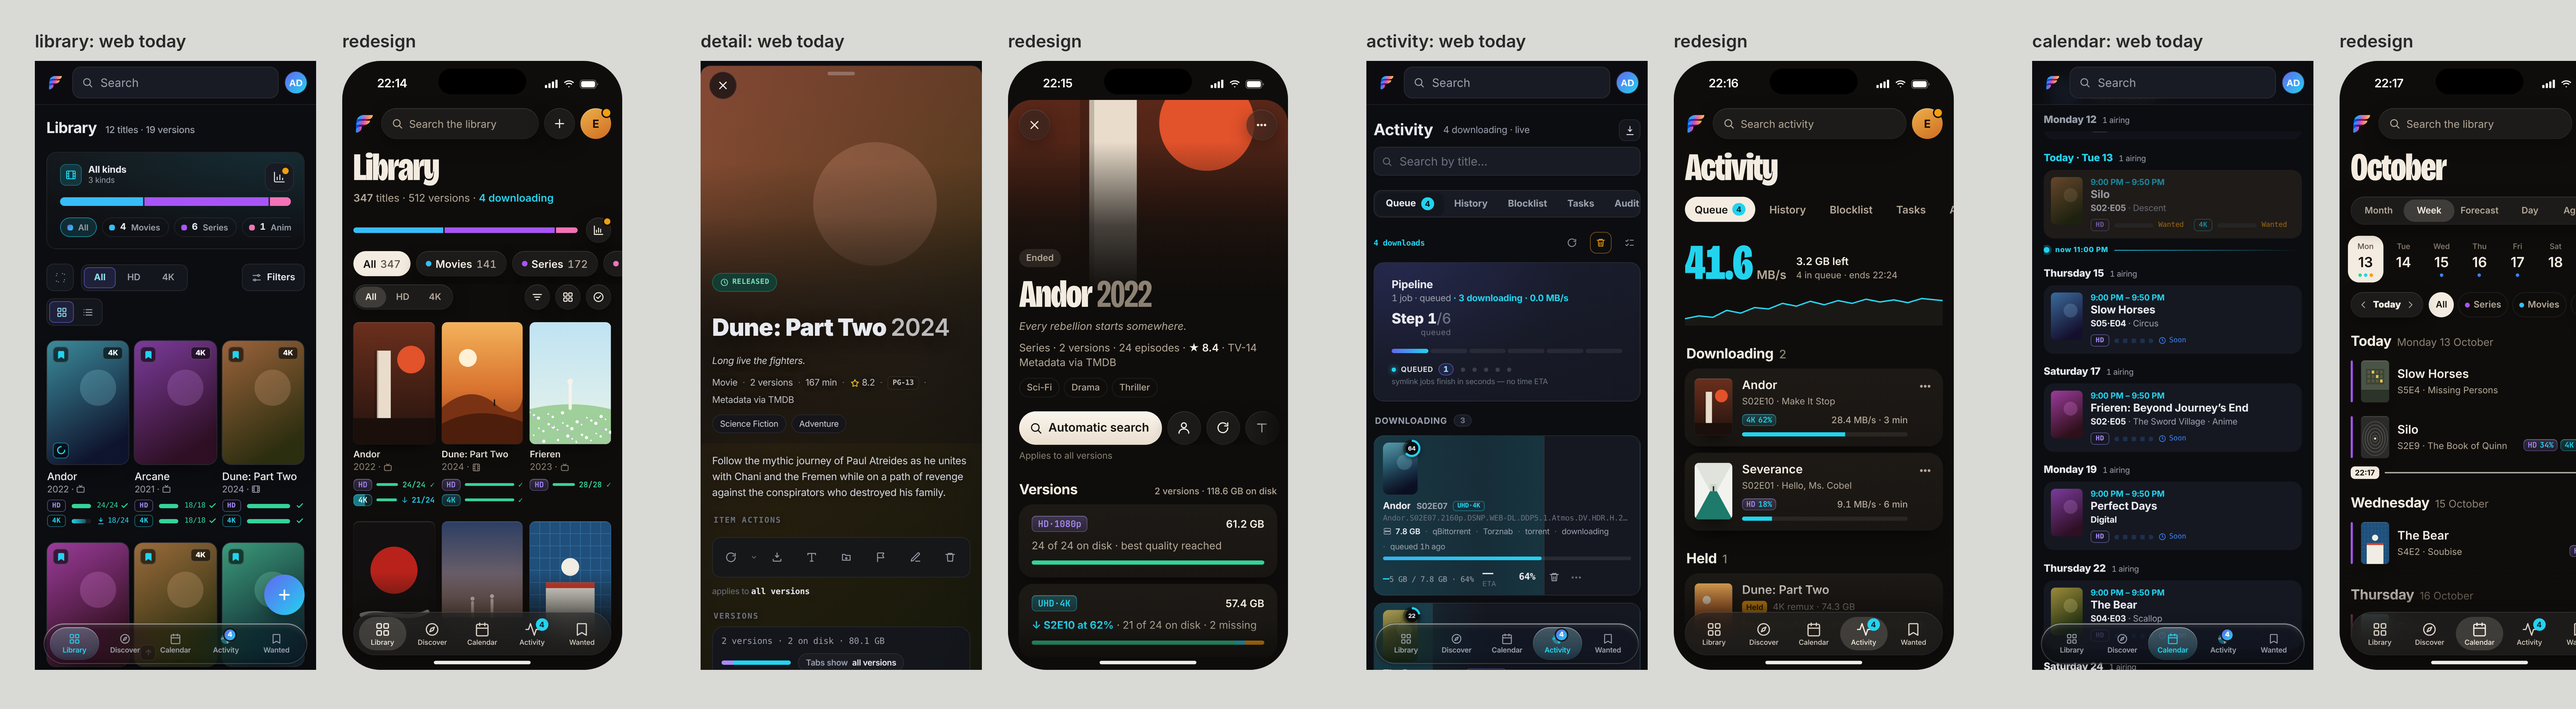
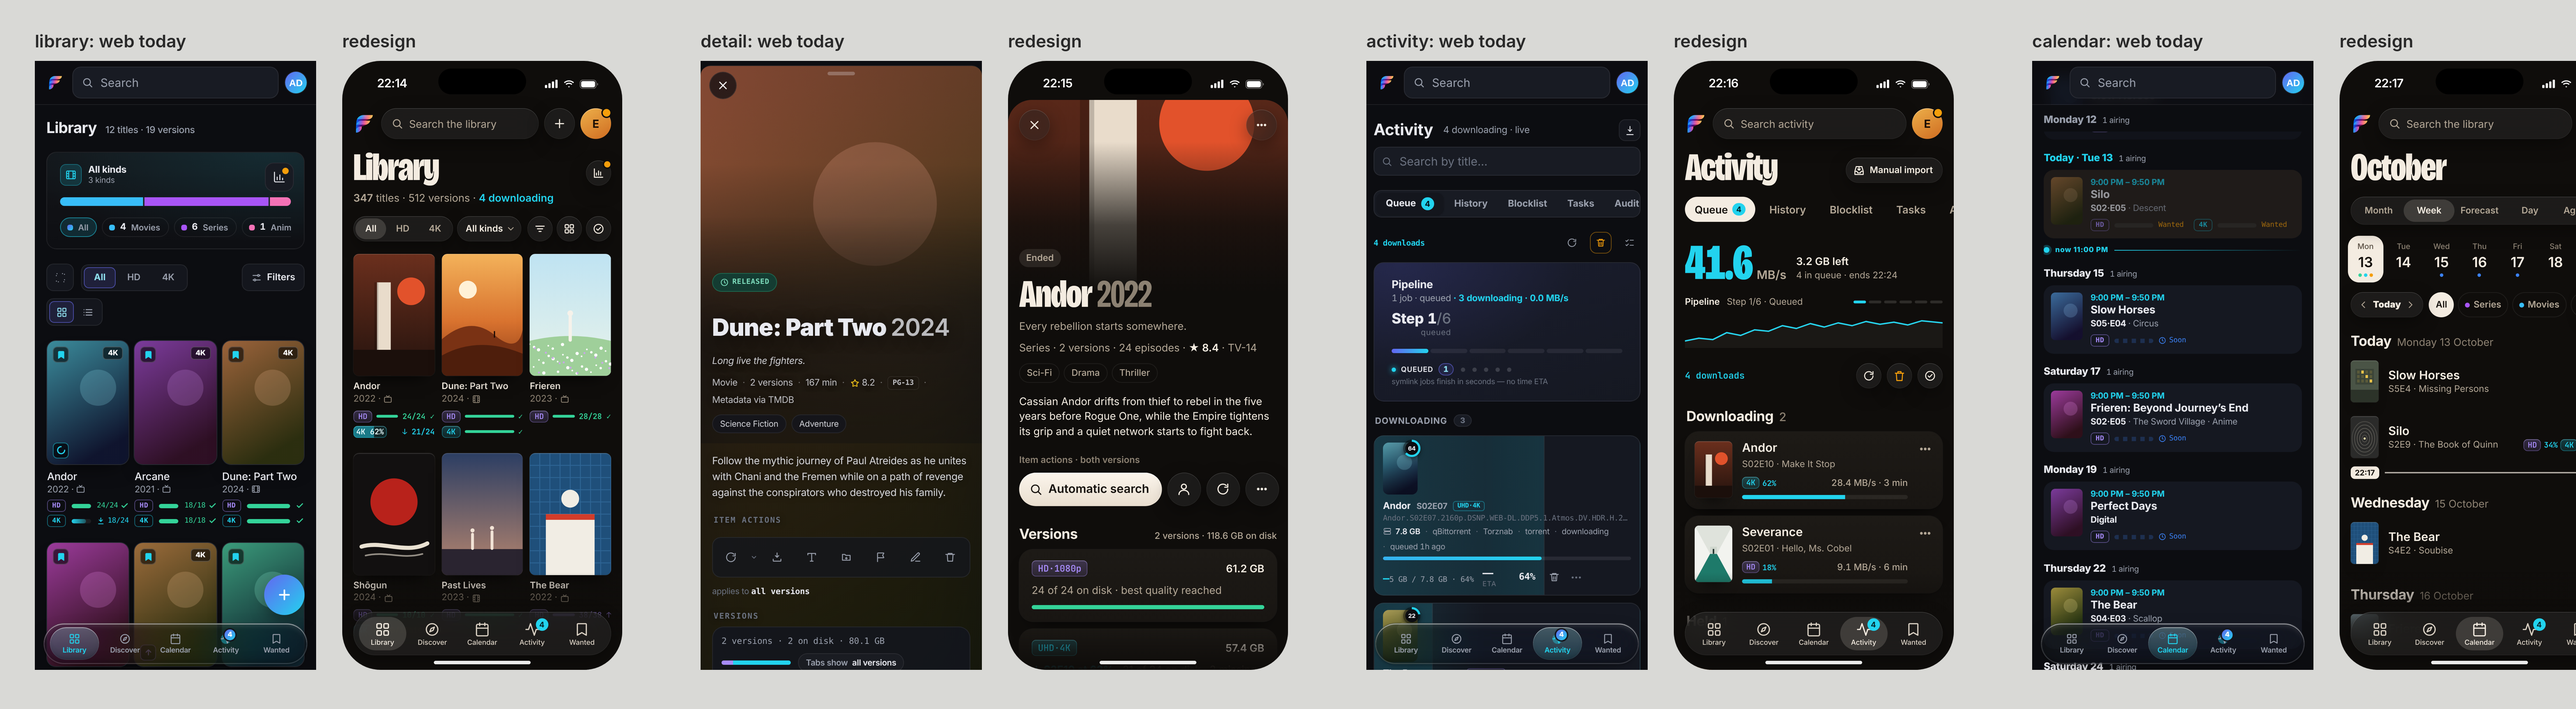
Redesign round 4: collapsed Library header, tier-only chips, detail overview and Activity pipeline
Claude-Session: https://claude.ai/code/session_014m8GXGta1yoU5Fnz4ZUVLk

diff --git a/docs/design/redesign/mockup.html b/docs/design/redesign/mockup.html
@@ -26,20 +26,17 @@
         <span class="status-chip">Ended</span>
         <h1 class="display d-title">Andor <span class="yr">2022</span></h1>
         <p class="tagline">Every rebellion starts somewhere.</p>
-        <p class="d-meta">Series · 2 versions · 24 episodes · <b>★ 8.4</b> · TV-14<br>Metadata via TMDB</p>
+        <p class="d-meta">Series · 2 versions · 24 episodes · <b>★ 8.4</b> · TV-14</p>
         <div class="genres"><span>Sci-Fi</span><span>Drama</span><span>Thriller</span></div>
+        <p class="overview">Cassian Andor drifts from thief to rebel in the five years before Rogue One, while the Empire tightens its grip and a quiet network starts to fight back.</p>
       </div>
-      <div class="rail" data-scrolls>
+      <p class="applies">Item actions · both versions</p>
+      <div class="rail">
         <div class="primary"><span data-icon="magnifier"></span>Automatic search</div>
         <div class="rb glass" data-icon="person" title="Interactive search"></div>
         <div class="rb glass" data-icon="refresh" title="Refresh"></div>
-        <div class="rb glass" data-icon="textformat" title="Preview rename"></div>
-        <div class="rb glass" data-icon="folder" title="Manage episodes"></div>
-        <div class="rb glass" data-icon="flag" title="Report an issue"></div>
-        <div class="rb glass" data-icon="pencil" title="Edit"></div>
-        <div class="rb glass" data-icon="trash" title="Delete"></div>
+        <div class="rb glass" data-icon="ellipsis" title="More: Preview rename, Manage episodes, Report an issue, Edit, Delete"></div>
       </div>
-      <p class="applies">Applies to all versions</p>
 
       <div class="section-h">Versions <span>2 versions · 118.6 GB on disk</span></div>
       <div class="versions">
@@ -61,19 +58,20 @@
         <div class="ep">
           <span class="bm on" data-icon="bookmark" data-hit-expanded></span>
           <div class="ep-t"><b>10 · Make It Stop</b><span>13 May 2025 · 47 min</span></div>
-          <div class="ep-c"><span class="ed ed-hd">HD <b class="c-done">✓</b></span><span class="ed ed-uhd">4K <b class="c-grab">62%</b></span></div>
+          <div class="ep-c"><span class="pair"><span class="ed ed-hd">HD</span><b class="st c-done">✓</b></span><span class="pair"><span class="ed ed-uhd">4K</span><b class="st c-grab">62%</b></span></div>
         </div>
         <div class="ep">
           <span class="bm on" data-icon="bookmark" data-hit-expanded></span>
           <div class="ep-t"><b>9 · Welcome to the Rebellion</b><span>13 May 2025 · 52 min</span></div>
-          <div class="ep-c"><span class="ed ed-hd">HD <b class="c-done">✓</b></span><span class="ed ed-uhd">4K <b class="c-miss">wanted</b></span></div>
+          <div class="ep-c"><span class="pair"><span class="ed ed-hd">HD</span><b class="st c-done">✓</b></span><span class="pair"><span class="ed ed-uhd">4K</span><b class="st c-miss">wanted</b></span></div>
         </div>
         <div class="ep">
           <span class="bm on" data-icon="bookmark" data-hit-expanded></span>
           <div class="ep-t"><b>8 · Who Are You?</b><span>13 May 2025 · 49 min</span></div>
-          <div class="ep-c"><span class="ed ed-hd">HD <b class="c-done">✓</b></span><span class="ed ed-uhd">4K <b class="c-miss">wanted</b></span></div>
+          <div class="ep-c"><span class="pair"><span class="ed ed-hd">HD</span><b class="st c-done">✓</b></span><span class="pair"><span class="ed ed-uhd">4K</span><b class="st c-miss">wanted</b></span></div>
         </div>
       </div>
+      <p class="credit">Metadata via TMDB</p>
     </div>
   </div>
 </section>
@@ -87,7 +85,7 @@
     <div class="grabber"></div>
     <div class="ps-head">
       <div><b>Shōgun</b><span>Series · 2024 · 1 season</span></div>
-      <div class="eds"><span class="ed ed-hd">HD <b class="c-done">✓</b></span><span class="ed ed-uhd">4K <b class="c-miss">0/10</b></span></div>
+      <div class="eds"><span class="pair"><span class="ed ed-hd">HD</span><b class="st c-done">✓</b></span><span class="pair"><span class="ed ed-uhd">4K</span><b class="st c-miss">0/10</b></span></div>
     </div>
     <div class="ps-primary"><span data-icon="magnifier"></span>Automatic search</div>
     <div class="ps-list">
@@ -108,7 +106,7 @@
       <div class="pill glass"><span class="ic" data-icon="search"></span>Search activity</div>
       <div class="avatar">E<span class="dot"></span></div>
     </div>
-    <h1 class="display page-title">Activity</h1>
+    <div class="title-row"><h1 class="display page-title">Activity</h1><div class="mi glass"><span data-icon="tray"></span>Manual import</div></div>
     <div class="segs" data-scrolls>
       <span class="on">Queue <em>4</em></span><span>History</span><span>Blocklist</span><span>Tasks</span><span>Audit</span><span>Indexers</span>
     </div>
@@ -116,15 +114,17 @@
       <div class="bw">
         <div class="bw-num display num">41.6<small>MB/s</small></div>
         <div class="bw-side"><b class="num">3.2 GB left</b><span>4 in queue · ends 22:24</span></div>
+        <div class="pipe"><b>Pipeline</b><span>Step 1/6 · Queued</span><div class="steps"><i class="on"></i><i></i><i></i><i></i><i></i><i></i></div></div>
         <svg class="spark" viewBox="0 0 370 44" preserveAspectRatio="none" aria-hidden="true"><path d="M0 34 L20 30 40 32 60 22 80 26 100 18 120 20 140 12 160 16 180 9 200 14 220 8 240 12 260 6 280 10 300 7 320 11 340 5 370 8" fill="none" stroke="#22D3EE" stroke-width="2" stroke-linejoin="round"/><path d="M0 34 L20 30 40 32 60 22 80 26 100 18 120 20 140 12 160 16 180 9 200 14 220 8 240 12 260 6 280 10 300 7 320 11 340 5 370 8 V44 H0Z" fill="#F4ECE1" opacity=".05"/></svg>
       </div>
 
+      <div class="qtools"><span class="qn">4 downloads</span><span class="g36 glass" data-icon="refresh"></span><span class="g36 glass warn" data-icon="trash"></span><span class="g36 glass" data-icon="select"></span></div>
       <div class="group-h">Downloading <span>2</span></div>
       <div class="obj q">
         <div class="q-poster poster" data-poster="andor"></div>
         <div class="q-main">
           <b>Andor</b><span class="q-sub">S02E10 · Make It Stop</span>
-          <div class="q-meta"><span class="ed ed-uhd">4K <b class="c-grab">62%</b></span><span class="num">28.4 MB/s · 3 min</span></div>
+          <div class="q-meta"><span class="pair"><span class="ed ed-uhd">4K</span><b class="st c-grab">62%</b></span><span class="num">28.4 MB/s · 3 min</span></div>
           <div class="meter"><i style="width:62%;background:var(--grab)"></i></div>
         </div>
         <div class="q-more" data-icon="ellipsis"></div>
@@ -133,7 +133,7 @@
         <div class="q-poster poster" data-poster="severance"></div>
         <div class="q-main">
           <b>Severance</b><span class="q-sub">S02E01 · Hello, Ms. Cobel</span>
-          <div class="q-meta"><span class="ed ed-hd">HD <b class="c-grab">18%</b></span><span class="num">9.1 MB/s · 6 min</span></div>
+          <div class="q-meta"><span class="pair"><span class="ed ed-hd">HD</span><b class="st c-grab">18%</b></span><span class="num">9.1 MB/s · 6 min</span></div>
           <div class="meter"><i style="width:18%;background:var(--grab)"></i></div>
         </div>
         <div class="q-more" data-icon="ellipsis"></div>
@@ -180,21 +180,21 @@
     </div>
     <div class="agenda" data-scrolls>
       <div class="day-h" data-proper>Today <span>Monday 13 October</span></div>
-      <div class="ev"><i class="kind" style="background:var(--series)"></i><div class="ev-p poster" data-poster="slowhorses"></div>
+      <div class="ev"><div class="ev-p poster" data-poster="slowhorses"></div>
         <div class="ev-t"><b>Slow Horses</b><span>S5E4 · Missing Persons</span></div>
-        <div class="ev-r"><span class="num">03:00</span><div class="eds"><span class="ed ed-hd">HD <b class="c-done">✓</b></span></div></div></div>
-      <div class="ev"><i class="kind" style="background:var(--series)"></i><div class="ev-p poster" data-poster="silo"></div>
+        <div class="ev-r"><span class="num">03:00</span><div class="eds"><span class="pair"><span class="ed ed-hd">HD</span><b class="st c-done">✓</b></span></div></div></div>
+      <div class="ev"><div class="ev-p poster" data-poster="silo"></div>
         <div class="ev-t"><b>Silo</b><span>S2E9 · The Book of Quinn</span></div>
-        <div class="ev-r"><span class="num">08:00</span><div class="eds"><span class="ed ed-hd">HD <b class="c-grab">34%</b></span><span class="ed ed-uhd">4K <b class="c-miss">wanted</b></span></div></div></div>
+        <div class="ev-r"><span class="num">08:00</span><div class="eds"><span class="pair"><span class="ed ed-hd">HD</span><b class="st c-grab">34%</b></span><span class="pair"><span class="ed ed-uhd">4K</span><b class="st c-miss">wanted</b></span></div></div></div>
       <div class="now"><span>22:17</span></div>
       <div class="day-h" data-proper>Wednesday <span>15 October</span></div>
-      <div class="ev"><i class="kind" style="background:var(--series)"></i><div class="ev-p poster" data-poster="bear"></div>
+      <div class="ev"><div class="ev-p poster" data-poster="bear"></div>
         <div class="ev-t"><b>The Bear</b><span>S4E2 · Soubise</span></div>
-        <div class="ev-r"><span class="num">02:00</span><div class="eds"><span class="ed ed-hd">HD <b class="c-unaired">soon</b></span></div></div></div>
+        <div class="ev-r"><span class="num">02:00</span><div class="eds"><span class="ed ed-hd">HD</span></div></div></div>
       <div class="day-h" data-proper>Thursday <span>16 October</span></div>
-      <div class="ev"><i class="kind" style="background:var(--anime)"></i><div class="ev-p poster" data-poster="frieren"></div>
+      <div class="ev"><div class="ev-p poster" data-poster="frieren"></div>
         <div class="ev-t"><b>Frieren</b><span>S2E2 · simulcast</span></div>
-        <div class="ev-r"><span class="num">16:30</span><div class="eds"><span class="ed ed-hd">HD <b class="c-unaired">soon</b></span></div></div></div>
+        <div class="ev-r"><span class="num">16:30</span><div class="eds"><span class="ed ed-hd">HD</span></div></div></div>
     </div>
   </div>
   <div class="edge" data-float></div>

diff --git a/docs/design/redesign/screens.css b/docs/design/redesign/screens.css
@@ -16,13 +16,30 @@
 .d-title { font-size: 56px; line-height: .95; letter-spacing: -1.2px; margin: 12px 0 0; }
 .d-title .yr { color: var(--ink-3); font-weight: 600; }
 .status-chip { display: inline-flex; font: 600 13px var(--sf); color: var(--ink-2); padding: 5px 10px; border-radius: 99px; background: rgba(244,236,225,.1); }
-.tagline { font: italic 400 15px/1.3 var(--sf); color: var(--ink-2); margin: 10px 0 0; }
-.applies { font: 400 13px var(--sf); color: var(--ink-3); margin: 8px 16px 0; }
+.tagline { font: 400 15px/1.3 var(--sf); color: var(--ink-2); margin: 10px 0 0; }
+.overview { font: 400 15px/1.45 var(--sf); color: var(--ink); margin: 16px 0 0; display: -webkit-box; -webkit-line-clamp: 3; -webkit-box-orient: vertical; overflow: hidden; }
+.overview b { color: var(--ink-2); font-weight: 600; }
+.credit { font: 400 13px var(--sf); color: var(--ink-3); margin: 0 16px; padding-bottom: 80px; }
+.pair { display: inline-flex; align-items: center; gap: 4px; }
+.st { font: 600 11px var(--mono); }
+.rmore { height: 48px; padding: 0 16px 0 12px; border-radius: 24px; display: flex; align-items: center; gap: 6px; font: 600 15px var(--sf); flex: none; }
+.rmore span { width: 20px; height: 20px; }
+.mi { height: 36px; padding: 0 14px 0 10px; border-radius: 18px; display: flex; align-items: center; gap: 6px; font: 600 13px var(--sf); margin-bottom: 4px; }
+.mi span { width: 18px; height: 18px; }
+.pipe { grid-column: 1 / -1; display: flex; align-items: center; gap: 10px; margin-top: 16px; font: 400 13px var(--sf); color: var(--ink-2); }
+.pipe b { font: 600 13px var(--sf); color: var(--ink); }
+.steps { display: flex; gap: 4px; margin-left: auto; }
+.steps i { width: 18px; height: 4px; border-radius: 2px; background: rgba(244,236,225,.14); }
+.steps i.on { background: var(--grab); }
+.qtools { display: flex; align-items: center; gap: 8px; margin-top: 22px; }
+.qtools .qn { font: 600 13px var(--mono); color: var(--grab); margin-right: auto; }
+.qtools .warn { color: var(--miss); }
+.applies { font: 600 13px var(--sf); color: var(--ink-3); margin: 22px 16px 0; }
 .d-meta { font: 400 15px/1.4 var(--sf); color: var(--ink-2); margin: 10px 0 0; }
 .d-meta b { color: var(--ink); font-weight: 600; }
 .genres { display: flex; gap: 6px; margin-top: 12px; }
 .genres span { font: 500 13px var(--sf); color: var(--ink-2); padding: 6px 11px; border-radius: 99px; box-shadow: inset 0 0 0 1px var(--hair); }
-.rail { display: flex; gap: 8px; padding: 20px 16px 0; overflow: hidden; -webkit-mask-image: linear-gradient(90deg, #000 85%, transparent); mask-image: linear-gradient(90deg, #000 85%, transparent); }
+.rail { display: flex; gap: 8px; padding: 10px 16px 0; }
 .rail .primary { height: 48px; padding: 0 18px 0 14px; border-radius: 24px; display: flex; align-items: center; gap: 8px; font: 600 17px var(--sf); color: #15110D;
   background: linear-gradient(180deg, #FBF5EC, #E9DECF); box-shadow: inset 0 1px 0 rgba(255,255,255,.7); flex: none; }
 .rail .primary [data-icon], .rail .primary span svg { width: 20px; height: 20px; }
@@ -65,7 +82,7 @@
 .ps-primary { margin: 0 8px 10px; height: 54px; border-radius: 27px; display: flex; align-items: center; justify-content: center; gap: 8px; font: 600 17px var(--sf); color: #15110D;
   background: linear-gradient(180deg, #FBF5EC, #E9DECF); box-shadow: inset 0 1px 0 rgba(255,255,255,.7); }
 .ps-primary span { width: 20px; height: 20px; }
-.ps-list { margin: 0 8px; border-radius: 26px; background: linear-gradient(180deg, #2A2520, #24201B); box-shadow: inset 0 1px 0 rgba(255,255,255,.06); }
+.ps-list { margin: 0 8px; border-radius: 26px; background: #27221D; box-shadow: inset 0 1px 0 rgba(255,255,255,.06); }
 .ps-list .row { display: flex; align-items: center; gap: 14px; height: 52px; padding: 0 16px; font: 400 17px var(--sf); border-bottom: .5px solid var(--hair); }
 .ps-list .row:last-child { border-bottom: 0; }
 .ps-list .row > span:first-child { width: 22px; height: 22px; color: var(--ink-2); flex: none; }
@@ -124,12 +141,12 @@
 .agenda { flex: 1; min-height: 0; overflow: hidden; padding: 0 16px 120px; }
 .day-h { font: 700 20px var(--sf); letter-spacing: -.3px; margin: 22px 0 6px; display: flex; gap: 8px; align-items: baseline; }
 .day-h span { font: 400 15px var(--sf); color: var(--ink-3); letter-spacing: 0; }
-.ev { display: flex; align-items: center; gap: 12px; padding: 10px 0; position: relative; }
+.ev { display: flex; align-items: center; gap: 14px; padding: 10px 0; position: relative; }
 .ev .kind { width: 3px; align-self: stretch; border-radius: 2px; flex: none; }
 .ev-p { width: 40px; flex: none; border-radius: 5px; }
 .ev-t { flex: 1; min-width: 0; }
-.ev-t b { display: block; font: 600 17px/1.25 var(--sf); }
-.ev-t span { font: 400 13px var(--sf); color: var(--ink-2); }
+.ev-t b { display: block; white-space: nowrap; overflow: hidden; text-overflow: ellipsis; font: 600 17px/1.25 var(--sf); }
+.ev-t span { display: block; font: 400 13px var(--sf); color: var(--ink-2); white-space: nowrap; overflow: hidden; text-overflow: ellipsis; }
 .ev-r { display: flex; flex-direction: column; align-items: flex-end; gap: 6px; font: 500 13px var(--sf); color: var(--ink-2); }
 .ev-r .eds { display: flex; gap: 4px; }
 .now { display: flex; align-items: center; gap: 8px; margin: 2px 0; }

diff --git a/docs/design/redesign/build.js b/docs/design/redesign/build.js
@@ -30,7 +30,7 @@
     const count = total ? `${have}/${total}` : "";
     const st = landed ? "done" : s;
     const cls = s === "grab" && inflight ? " fill" : landed ? " landed" : "";
-    return `<div class="rail-row"><span class="ed ed-${t}${cls}"${cls === " fill" ? ` style="--p:${inflight}%"` : ""}>${tier}</span><span class="rbar">${bar}</span><span class="rc rc-${st}${landed ? " rolled" : ""}">${s === "grab" && !landed ? "↓ " : ""}${count}${s !== "grab" || landed ? (mark[st] ? ` ${mark[st]}` : (s === "miss" ? "missing" : "")) : ""}</span></div>`;
+    return `<div class="rail-row"><span class="ed ed-${t}${cls}"${cls === " fill" ? ` style="--p:${inflight}%"` : ""}>${tier}${cls === " fill" ? ` ${inflight}%` : ""}</span><span class="rbar">${bar}</span><span class="rc rc-${st}${landed ? " rolled" : ""}">${s === "grab" && !landed ? "↓ " : ""}${count}${s !== "grab" || landed ? (mark[st] ? ` ${mark[st]}` : (s === "miss" ? "missing" : "")) : ""}</span></div>`;
   };
   const grid = (sig) => items(sig).map(([k, t, y, kind, vs]) =>
     `<div class="cell"><div class="poster" data-poster="${k}"></div><div class="t">${t}</div><div class="y">${y} · ${kindGlyph[kind]}</div><div class="rails">${vs.map(rail).join("")}</div></div>`).join("");
@@ -45,20 +45,11 @@
         <div class="g44 glass" data-icon="plus"></div>
         <div class="avatar">E<span class="dot"></span></div>
       </div>
-      <h1 class="display page-title">Library</h1>
+      <div class="title-row"><h1 class="display page-title">Library</h1><div class="g36 glass" data-icon="chart"><b class="adot"></b></div></div>
       <p class="caption"><b>347</b> titles · 512 versions · <b style="color:var(--grab)">${downloading} downloading</b></p>
-      <div class="kinds">
-        <div class="kbar"><i style="flex:141;background:var(--movie)"></i><i style="flex:172;background:var(--series)"></i><i style="flex:34;background:var(--anime)"></i></div>
-        <div class="g36 glass" data-icon="chart"><b class="adot"></b></div>
-      </div>
-      <div class="chips" data-scrolls>
-        <span class="on">All <em>347</em></span>
-        <span class="glass"><i class="sw" style="background:var(--movie)"></i>Movies <em>141</em></span>
-        <span class="glass"><i class="sw" style="background:var(--series)"></i>Series <em>172</em></span>
-        <span class="glass"><i class="sw" style="background:var(--anime)"></i>Anime <em>34</em></span>
-      </div>
       <div class="tools">
         <div class="tier glass" data-system><span class="on">All</span><span>HD</span><span>4K</span></div>
+        <div class="kmenu glass">All kinds <span data-icon="down"></span></div>
         <div class="g36 glass" data-icon="filter"></div>
         <div class="g36 glass" data-icon="grid"></div>
         <div class="g36 glass" data-icon="select"></div>
@@ -66,7 +57,7 @@
       <div class="grid" data-scrolls>${grid(sig)}</div>
     </div>
     <div class="edge" data-float></div>
-    ${landed ? `<div class="toast" data-float><div class="thumb poster" data-poster="andor"></div><div class="tt"><b>Andor · S2E10 in 4K is on disk</b><span>4.1 GB · 22 of 24 now in 4K</span></div><div class="act">Open</div></div>` : ""}
+    ${landed ? `<div class="toast" data-float><div class="thumb poster" data-poster="andor"></div><div class="tt"><b><span class="ed ed-uhd landed">4K</span> Andor · S2E10 is on disk</b><span>4.1 GB · 22 of 24 now in 4K</span></div><div class="act">Open</div></div>` : ""}
     <div data-tabs="library" data-badges='{"activity":${downloading}}'></div>`;
   };
 

diff --git a/docs/design/redesign/app.css b/docs/design/redesign/app.css
@@ -15,6 +15,9 @@
 /* Display type: page titles and detail titles only. */
 .display { font-family: var(--display); font-weight: 800; font-variation-settings: "wdth" 75, "opsz" 96; }
 .page-title { font-size: 56px; line-height: .95; letter-spacing: -1.2px; margin: 14px 16px 0; }
+.title-row { display: flex; align-items: flex-end; justify-content: space-between; padding-right: 16px; flex: none; }
+.kmenu { display: flex; align-items: center; gap: 4px; height: 36px; padding: 0 8px 0 12px; border-radius: 18px; font: 600 13px var(--sf); }
+.kmenu span { width: 14px; height: 14px; color: var(--ink-2); }
 .caption { font: 400 15px/1.35 var(--sf); color: var(--ink-2); margin: 8px 16px 0; }
 .caption b { font-weight: 600; }
 
@@ -52,7 +55,9 @@
 .cell .y svg { width: 13px; height: 13px; }
 .rails { display: flex; flex-direction: column; gap: 5px; margin-top: 8px; }
 .rail-row { display: flex; align-items: center; gap: 6px; }
-.rail-row .ed { width: 27px; justify-content: center; padding: 3px 0; flex: none; }
+.rail-row .ed { min-width: 27px; justify-content: center; padding: 3px 4px; flex: none; }
+.rail-row:has(.fill) .rbar { display: none; }
+.rail-row:has(.fill) .rc { margin-left: auto; }
 .rbar { flex: 1; height: 4px; border-radius: 2px; background: rgba(244,236,225,.1); display: flex; overflow: hidden; min-width: 14px; }
 .rbar i { display: block; height: 100%; }
 .rbar .live { background: var(--grab); }
@@ -68,8 +73,9 @@
 .g36 { position: relative; width: 36px; height: 36px; border-radius: 18px; display: grid; place-items: center; flex: none; color: var(--ink); }
 .g36 svg { width: 18px; height: 18px; }
 .adot { position: absolute; top: 1px; right: 1px; width: 9px; height: 9px; border-radius: 5px; background: var(--miss); box-shadow: 0 0 0 2px var(--ground); }
-.tools { display: flex; gap: 8px; padding: 0 16px 18px; flex: none; }
-.tier { display: flex; padding: 3px; border-radius: 18px; margin-right: auto; }
+.tools { display: flex; gap: 6px; padding: 16px 16px 18px; flex: none; }
+.tier { display: flex; padding: 3px; border-radius: 18px; }
+.tools .kmenu { margin-right: auto; }
 .tier span { height: 30px; display: flex; align-items: center; padding: 0 14px; border-radius: 15px; font: 600 13px var(--sf); color: var(--ink-2); }
 .tier span.on { background: rgba(244,236,225,.16); color: var(--ink); }
 
@@ -98,7 +104,7 @@
   background: linear-gradient(180deg, #2A2520, #1E1A16); box-shadow: 0 0 0 .5px rgba(255,255,255,.08), 0 24px 40px -18px rgba(0,0,0,.9); }
 .toast .thumb { width: 36px; border-radius: 5px; flex: none; }
 .toast .tt { flex: 1; min-width: 0; }
-.toast .tt b { display: block; font: 600 15px/1.3 var(--sf); }
+.toast .tt b { display: flex; align-items: center; gap: 6px; font: 600 15px/1.3 var(--sf); white-space: nowrap; }
 .toast .tt span { display:block; margin-top: 2px; font: 400 13px/1.3 var(--sf); color: var(--ink-2); }
 .toast .act { font: 600 15px var(--sf); color: var(--ink); padding: 10px 4px; }
 .toast .timer-unused { position: absolute; left: 22px; right: 22px; bottom: 0; height: 2px; border-radius: 1px; background: linear-gradient(90deg, var(--done) 70%, transparent 70%); opacity: .7; }
